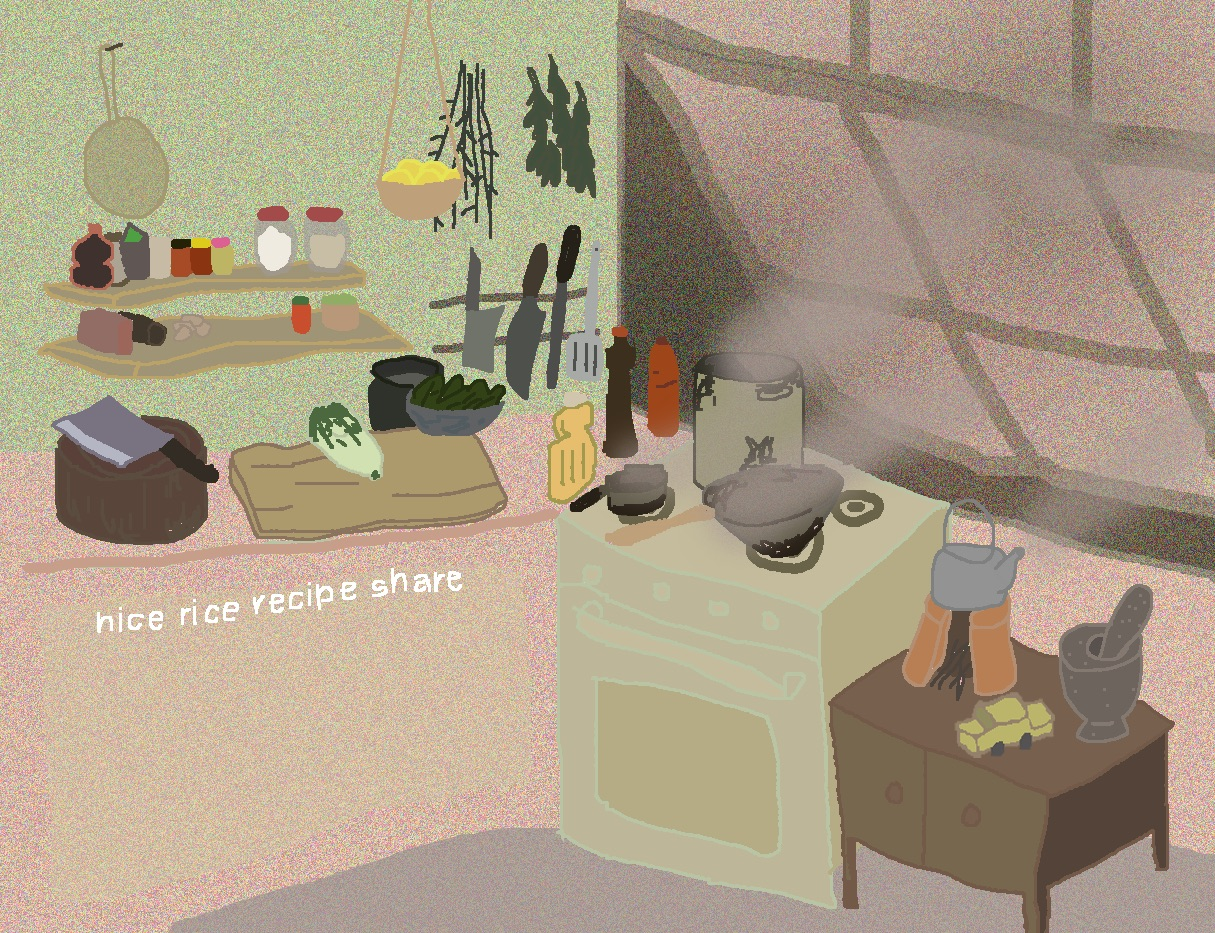
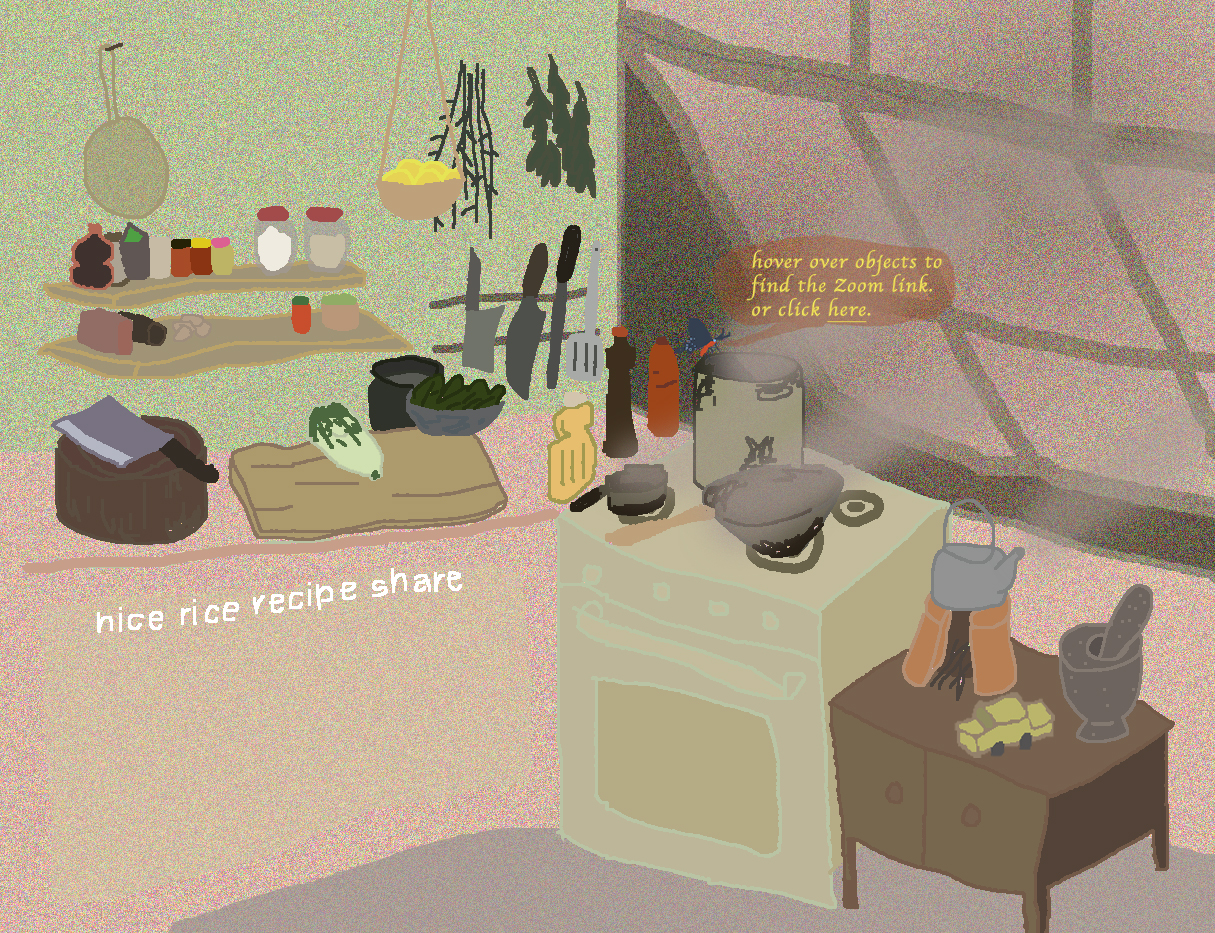
links and instructions added

diff --git a/pages/riceIsNice.html b/pages/riceIsNice.html
@@ -11,31 +11,33 @@
 	<div id="containment-wrapper">
 <!-- 		<img class="room" src="../assets/riceIsNice/background.jpg"> -->
 
-		<a href="https://zoom.us/">
+		<a href=https://zoom.us/j/91044970678" target="_blank"><div id="here"></div></a>
+
+		<a href="https://zoom.us/j/91044970678" target="_blank">
 		<img id="bottle" src="../assets/riceIsNice/bottle.png">
 		</a>
-		<a href="https://zoom.us/">
+		<a href="https://zoom.us/j/91044970678" target="_blank">
 		<img id="knife" src="../assets/riceIsNice/knife.png">
 		</a>
-		<a href="https://zoom.us/">
+		<a href="https://zoom.us/j/91044970678" target="_blank">
 		<img id="leaf" src="../assets/riceIsNice/leaf.png">
 		</a>
-		<a href="https://zoom.us/">
+		<a href="https://zoom.us/j/91044970678" target="_blank">
 		<img id="oven" src="../assets/riceIsNice/oven.png">
 		</a>
-		<a href="https://zoom.us/">
+		<a href="https://zoom.us/j/91044970678" target="_blank">
 		<img id="pestle" src="../assets/riceIsNice/pestle.png">
 		</a>
-		<a href="https://zoom.us/">
+		<a href="https://zoom.us/j/91044970678" target="_blank">
 		<img id="spicy" src="../assets/riceIsNice/spicy.png">
 		</a>
-		<a href="https://zoom.us/">
+		<a href="https://zoom.us/j/91044970678" target="_blank">
 		<img id="wok" src="../assets/riceIsNice/wok.png">
 		</a>
 
 		<!-- submissions -->
 		<div id="recipes">
-		<a href="../assets/riceIsNice/submissions/1.jpg" target="_blank">
+		<a href="../assets/riceIsNice/submissions/1.jpg">
 		<img class="draggable submission" src="../assets/riceIsNice/submissions/thumbnails/1.jpg"></a>
 		<a href="../assets/riceIsNice/submissions/2.jpg">
 		<img class="draggable submission" src="../assets/riceIsNice/submissions/thumbnails/2.jpg"></a>

diff --git a/pages/libraryTrickster.html b/pages/libraryTrickster.html
@@ -10,29 +10,30 @@
 <body>
 	<div id="containment-wrapper">
 		<!-- <img class="draggable item avatar" src="../assets/welcomeWall/welcome-wall.png"> -->
+		<a href=https://us02web.zoom.us/j/9174065117" target="_blank"><div id="here"></div></a>
 
-		<a href="https://zoom.us/">
+		<a href="https://us02web.zoom.us/j/9174065117" target="_blank">
 		<img id="binoc" src="../assets/libraryTrickster/binoc.png">
 		</a>
-		<a href="https://zoom.us/">
+		<a href="https://us02web.zoom.us/j/9174065117" target="_blank">
 		<img id="book1" src="../assets/libraryTrickster/book1.png">
 		</a>
-		<a href="https://zoom.us/">
+		<a href="https://us02web.zoom.us/j/9174065117" target="_blank">
 		<img id="book2" src="../assets/libraryTrickster/book2.png">
 		</a>
-		<a href="https://zoom.us/">
+		<a href="https://us02web.zoom.us/j/9174065117" target="_blank">
 		<img id="book3" src="../assets/libraryTrickster/book3.png">
 		</a>
-		<a href="https://zoom.us/">
+		<a href="https://us02web.zoom.us/j/9174065117" target="_blank">
 		<img id="bottle" src="../assets/libraryTrickster/bottle.png">
 		</a>
-		<a href="https://zoom.us/">
+		<a href="https://us02web.zoom.us/j/9174065117" target="_blank">
 		<img id="drawer" src="../assets/libraryTrickster/drawer.png">
 		</a>
-		<a href="https://zoom.us/">
+		<a href="https://us02web.zoom.us/j/9174065117" target="_blank">
 		<img id="rocker" src="../assets/libraryTrickster/rocker.png">
 		</a>
-		<a href="https://zoom.us/">
+		<a href="https://us02web.zoom.us/j/9174065117" target="_blank">
 		<img id="tea" src="../assets/libraryTrickster/tea.png">
 		</a>
 

diff --git a/pages/timeTravel.html b/pages/timeTravel.html
@@ -9,16 +9,18 @@
 </head>
 <body>
 	<div id="containment-wrapper">
-		<a href="https://zoom.us/">
+		<a href="https://zoom.us/j/92718371793?pwd=U0hpRlhiRHBaK0tXRWJoVFNkUGNTQT09" target="_blank"><div id="here"></div></a>
+
+		<a href="https://zoom.us/j/92718371793?pwd=U0hpRlhiRHBaK0tXRWJoVFNkUGNTQT09" target="_blank">
 		<img id="future" src="../assets/timeTravel/future.png">
 		</a>
-		<a href="https://zoom.us/">
+		<a href="https://zoom.us/j/92718371793?pwd=U0hpRlhiRHBaK0tXRWJoVFNkUGNTQT09" target="_blank">
 		<img id="past" src="../assets/timeTravel/past.png">
 		</a>
-		<a href="https://zoom.us/">
+		<a href="https://zoom.us/j/92718371793?pwd=U0hpRlhiRHBaK0tXRWJoVFNkUGNTQT09" target="_blank">
 		<img id="present" src="../assets/timeTravel/present.png">
 		</a>
-		<a href="https://zoom.us/">
+		<a href="https://zoom.us/j/92718371793?pwd=U0hpRlhiRHBaK0tXRWJoVFNkUGNTQT09" target="_blank">
 		<img id="zoom" src="../assets/timeTravel/zoom.png">
 		</a>
 
@@ -35,7 +37,7 @@
 		<a href="../assets/timeTravel/submissions/4.jpg">
 		<img id="four" class="draggable submission" src="../assets/timeTravel/submissions/thumbnails/4.jpg">
 		</a>
-		<a href="../assets/timeTravel/submissions/5.jpg">
+		<a href="../assets/timeTravel/submissions/5.jpg"
 		<img id="five" class="draggable submission" src="../assets/timeTravel/submissions/thumbnails/5.jpg">
 		</a>
 		<a href="../assets/timeTravel/submissions/6.jpg">

diff --git a/styles/riceIsNice.css b/styles/riceIsNice.css
@@ -1,8 +1,6 @@
 #containment-wrapper {
   position: absolute;
   transform: scale(.90);
-  width: 1000px;
-  height:795px;
   top: 50%;
   left: 50%;
   margin-top: -397.5px; /* Half the height */
@@ -16,6 +14,14 @@
 
 #containment-wrapper div{
   position: absolute;
+}
+
+#here{
+    width:70px;
+    height:20px;
+    position:absolute;
+    top:251px;
+    left:687px;
 }
 
 .submission{

diff --git a/styles/libraryTrickster.css b/styles/libraryTrickster.css
@@ -18,6 +18,15 @@
     position: absolute;
 }
 
+#here{
+    width:70px;
+    height:20px;
+/*    border:2px solid #ccc;*/
+    position:absolute;
+    top:599px;
+    left:129px;
+}
+
 .submission{
     position: absolute;
     width:4%;

diff --git a/styles/timeTravel.css b/styles/timeTravel.css
@@ -16,6 +16,14 @@
     position: absolute;
 }
 
+#here{
+    width:70px;
+    height:20px;
+    position:absolute;
+    top:112px;
+    left:188px;
+}
+
 .submission{
   position: absolute;
   width:4%;
